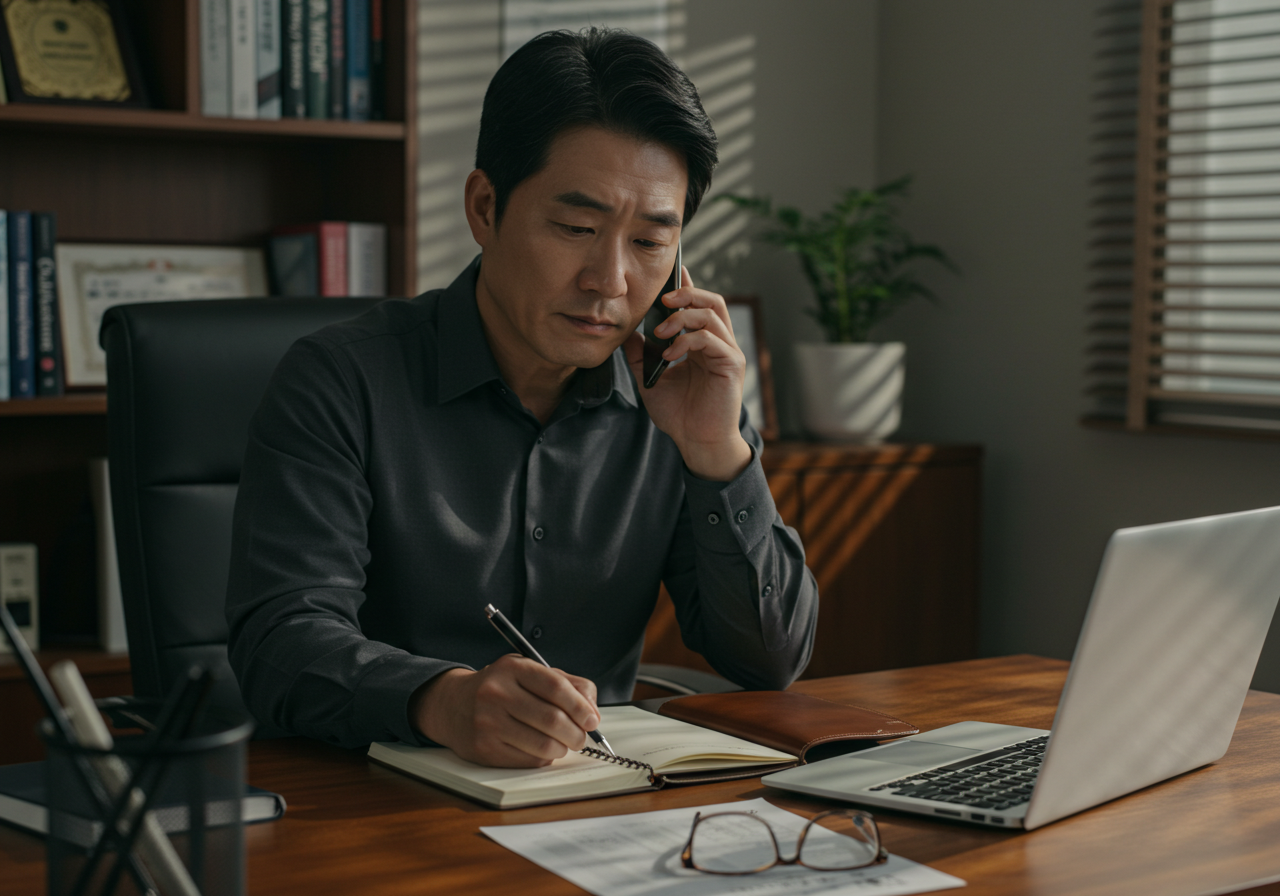
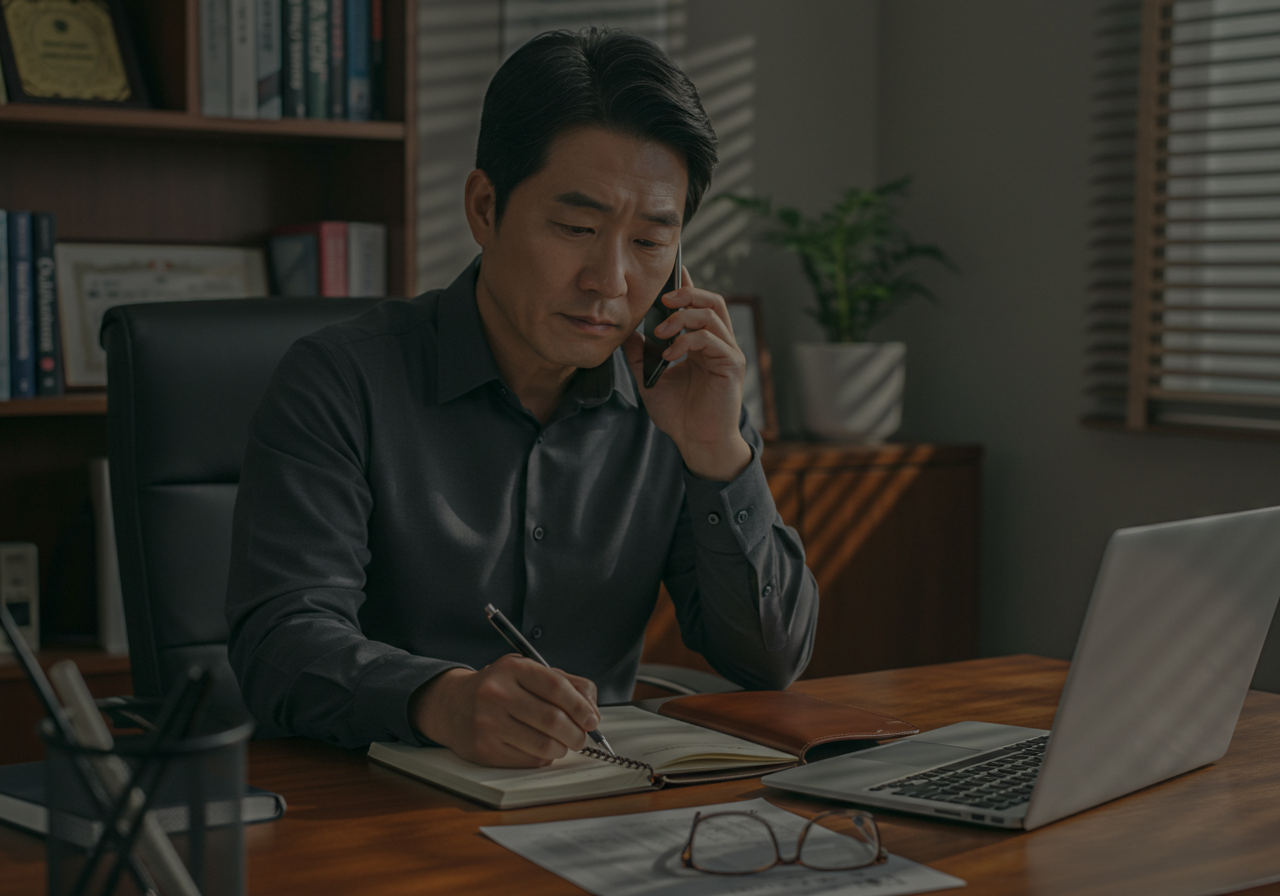
feat: 메인 페이지 이미지 교체 및 간격 조정

diff --git a/src/components/main/MainBoxForBriefing.tsx b/src/components/main/MainBoxForBriefing.tsx
@@ -1,8 +1,7 @@
 import styled, { css } from 'styled-components';
 import MessageBox from '../common/MessageBox';
 import translateFontSize from '@utils/translateFontSize';
-
-const IMAGE_EXAMPLES = require('@assets/images/main/image_examples.png');
+import IMAGE_EXAMPLES from '@assets/images/main/image_examples.gif';
 
 const MainBoxForBriefingBlock = styled.div`
   width: 100%;
@@ -38,11 +37,7 @@ const MainBoxForBriefing = () => {
     <>
       <MessageBox>
         <h2>처음부터 혼자 다 하려고 하지 마세요.</h2>
-        <p>
-          플랜킷이 6년간 쌓은
-          <br />
-          사업계획서 작성 노하우를 모두 전수해 드립니다.
-        </p>
+        <p>6년간 쌓은 사업계획서 작성 노하우를 모두 전수해 드립니다.</p>
       </MessageBox>
 
       <MainBoxForBriefingBlock>
@@ -51,7 +46,7 @@ const MainBoxForBriefing = () => {
           <h2>
             2025년, 지원 사업에 대해 아무것도 모르고
             <br />
-            연락하셨던 분들이 1차 서류에 합격하셨습니다.
+            연락하셨던 분들이 1차 서류에 합격하셨습니다.
           </h2>
           <p>
             누군가는 매년 5,000만 원 이상 받아 가고 있습니다.

diff --git a/src/styles/main/MainBoxForMerit.style.ts b/src/styles/main/MainBoxForMerit.style.ts
@@ -61,7 +61,7 @@ export const BoxUnified = styled.div`
 
 export const BoxSeperated = styled.div`
   width: 50%;
-  height: 511px;
+  /* height: 511px; */
   display: flex;
   justify-content: center;
   align-items: center;
@@ -88,9 +88,11 @@ export const BoxPost = styled.div`
   }
 
   @media (max-width: 768px) {
-    margin-top: 20px;
+    padding: 20px 20px;
+
     h2,
     p {
+      word-break: keep-all;
       display: flex;
       justify-content: center;
     }
@@ -120,7 +122,8 @@ export const BoxImage = styled.div`
   }
 
   &.wrap {
-    height: 100%;
+    height: 511px;
+    /* height: 100%; */
     justify-content: start;
     overflow: hidden;
     padding-top: 0px;

diff --git a/src/components/main/MainBoxForLastCover.tsx b/src/components/main/MainBoxForLastCover.tsx
@@ -2,8 +2,7 @@ import styled, { css } from 'styled-components';
 import translateFontSize from '@utils/translateFontSize';
 import palette from '@assets/colors';
 import ConsultButton from '@components/common/ConsultButton';
-
-const IMAGE_LAST_COVER = require('@assets/images/main/image_cover_last.png');
+import IMAGE_LAST_COVER from '@assets/images/main/image_cover_last.png';
 
 const MainBoxForLastCoverBlock = styled.div`
   width: 100%;
@@ -21,7 +20,7 @@ const CoverBox = styled.div`
   justify-content: center;
   align-items: center;
   text-align: center;
-  background-color: #00000090;
+  /* background-color: #00000090; */
 `;
 
 const CoverBoxContent = styled.div`

diff --git a/src/components/main/MainBoxForCover.tsx b/src/components/main/MainBoxForCover.tsx
@@ -2,8 +2,7 @@ import palette from '@assets/colors/index';
 import ConsultButton from '@components/common/ConsultButton';
 import translateFontSize from '@utils/translateFontSize';
 import styled, { css } from 'styled-components';
-
-const IMAGE_COVER_MAIN = require('@assets/images/main/image_cover_main.jpg');
+import IMAGE_COVER_MAIN from '@assets/images/main/image_cover_main.jpg';
 
 const MainCoverBoxBlock = styled.div`
   width: 100%;
@@ -21,7 +20,7 @@ const MainCoverBoxBlock = styled.div`
     gap: 20px;
 
     color: ${palette.black.white};
-    background-color: #00000090;
+    /* background-color: #00000090; */
 
     & > .header {
       display: flex;

diff --git a/src/components/main/MainBoxForMerit.tsx b/src/components/main/MainBoxForMerit.tsx
@@ -1,6 +1,6 @@
 import * as S from '@styles/main/MainBoxForMerit.style';
 import IMAGE_MERIT_1 from '@assets/images/main/image_merit_1.png';
-import IMAGE_MERIT_2 from '@assets/images/main/image_merit_2.jpg';
+import IMAGE_MERIT_2 from '@assets/images/main/image_merit_2.png';
 import IMAGE_MERIT_3 from '@assets/images/main/image_merit_3.gif';
 import IMAGE_MERIT_4 from '@assets/images/main/image_merit_4.jpg';
 

diff --git a/src/components/main/MainContents.tsx b/src/components/main/MainContents.tsx
@@ -40,7 +40,7 @@ const ContentsWrapper1 = styled.div`
     flex-direction: column;
     gap: 100px;
     margin: 0 auto;
-    margin-bottom: 179.53px;
+    margin-bottom: 100px;
   }
 `;
 
